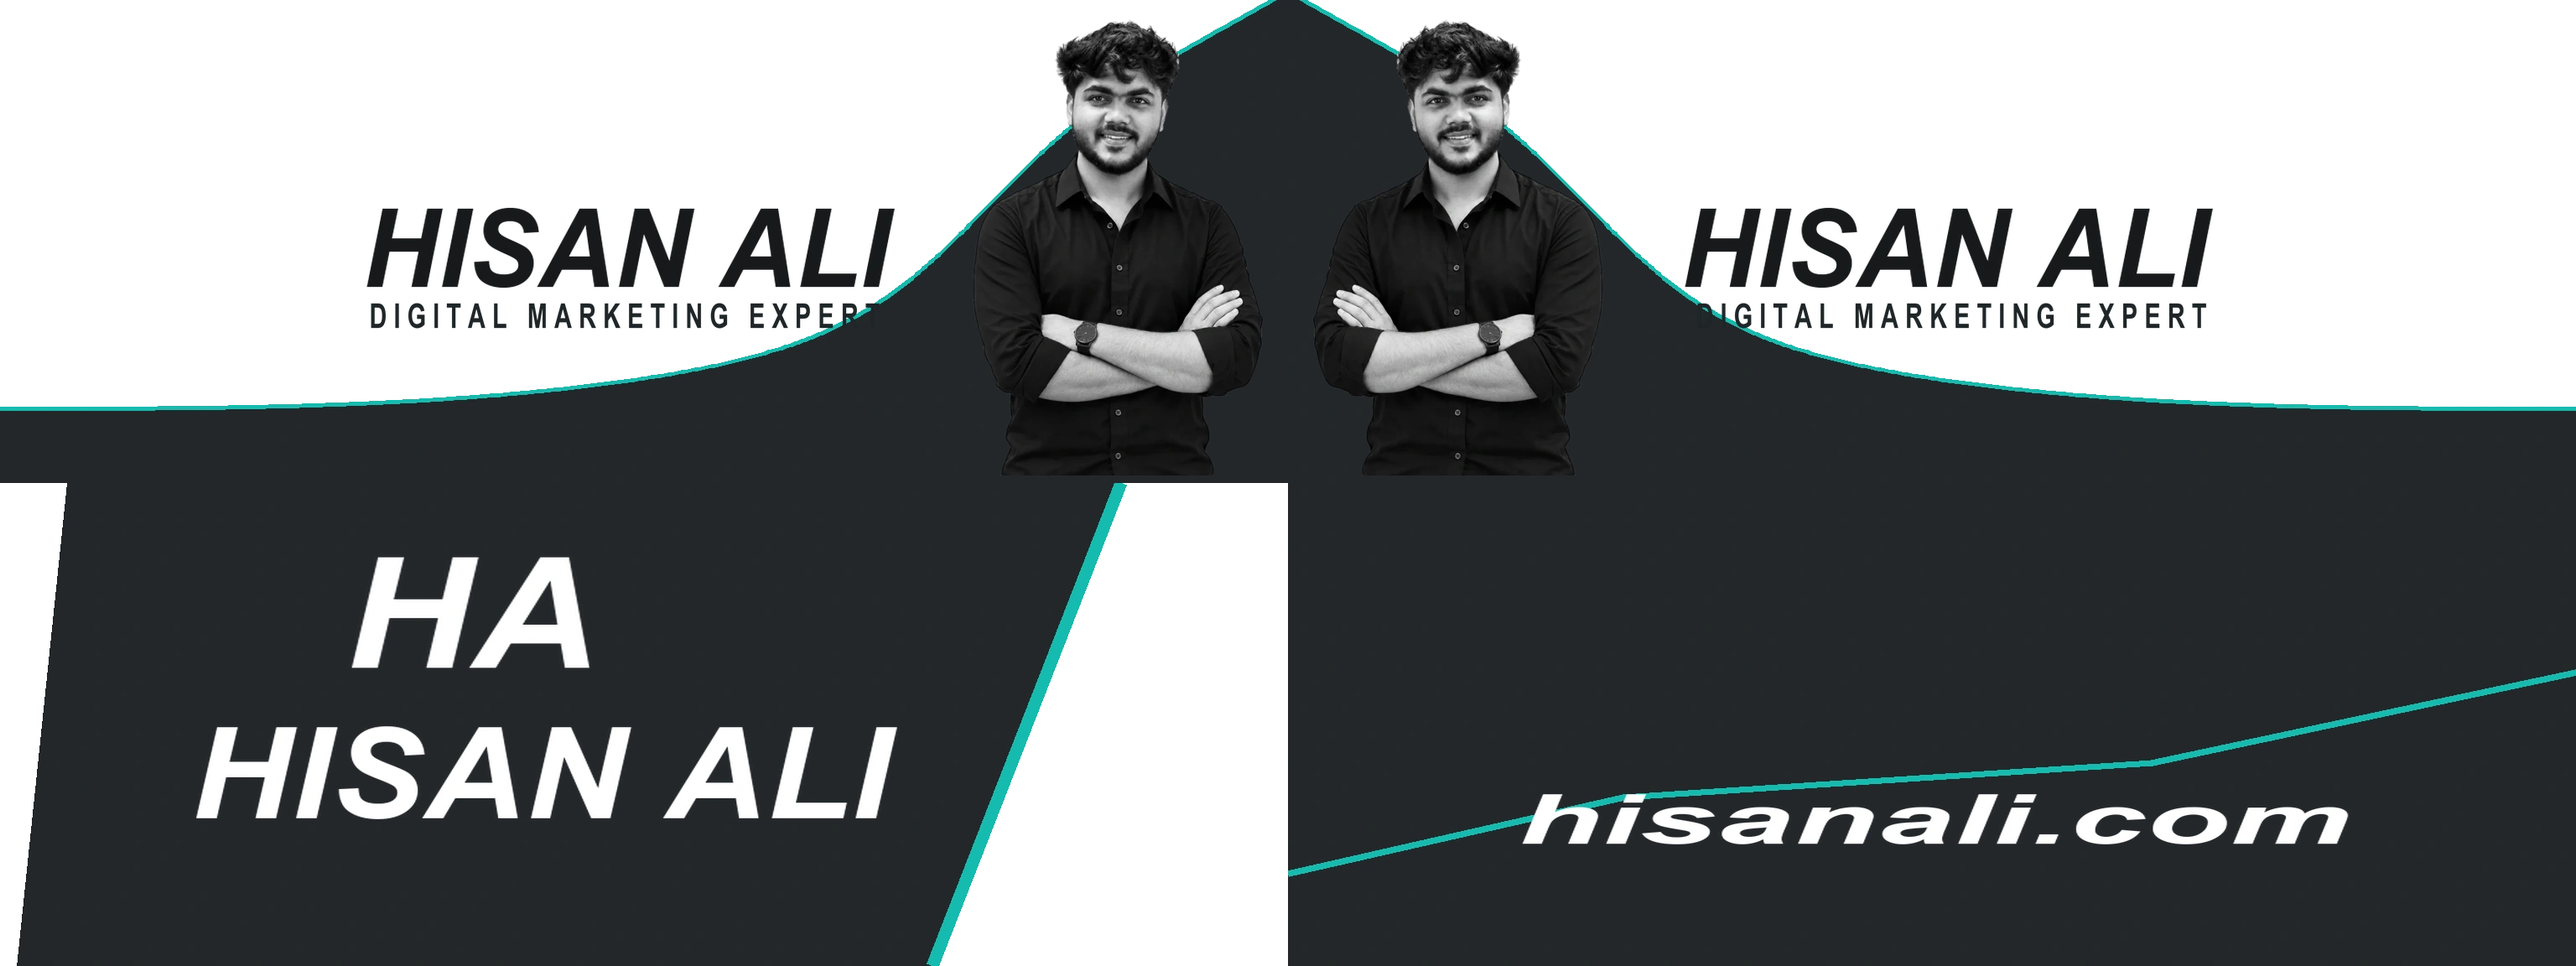
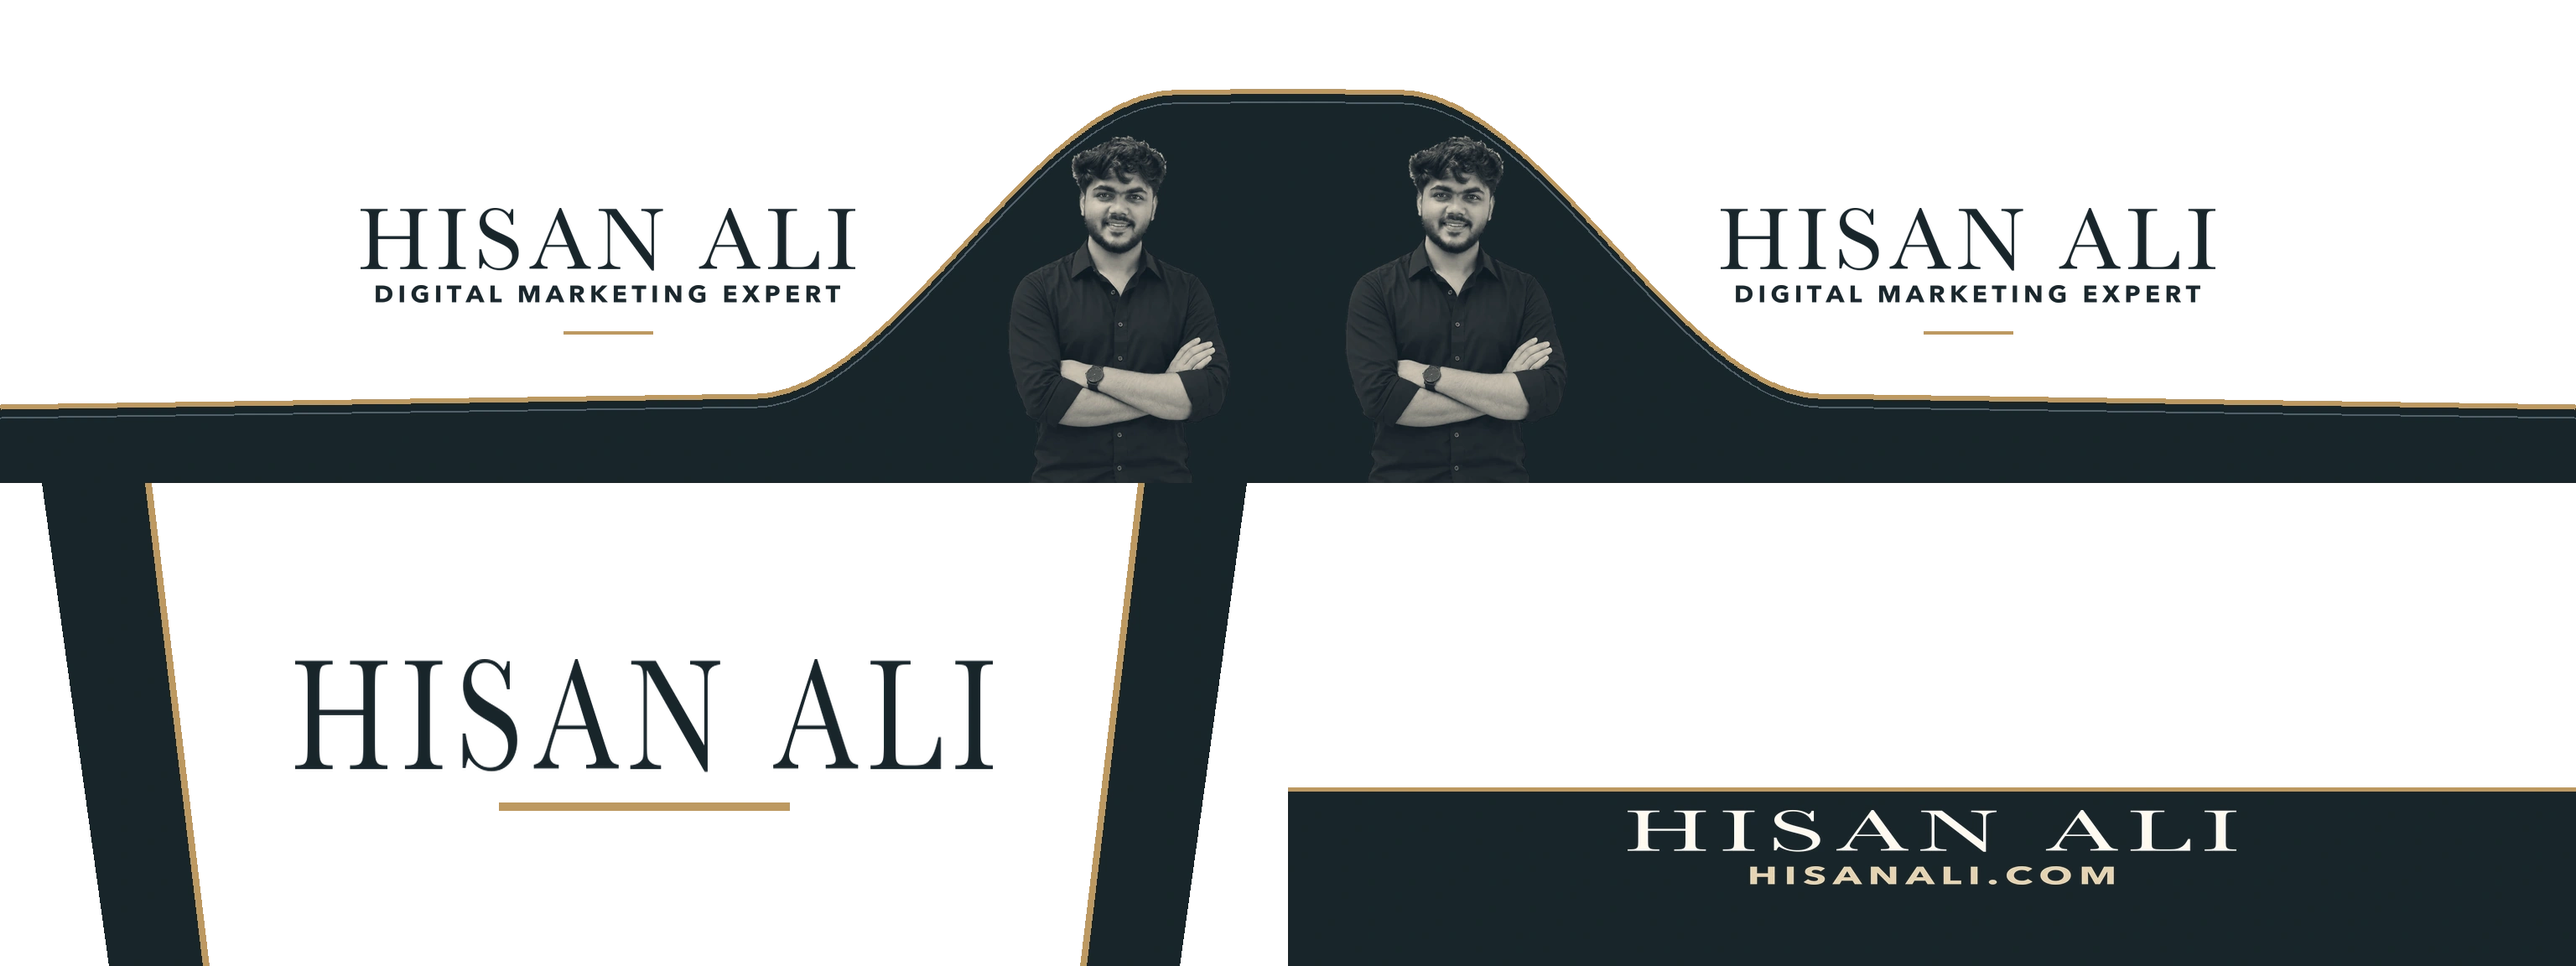
Redesign Hisan fleet wraps in graphite and champagne

diff --git a/afterdark/src/escalade-wrap.js b/afterdark/src/escalade-wrap.js
@@ -6,7 +6,7 @@ const finishes = new Map();
 export function fitEscaladeWrap(group, kit, panels, artwork = 'escalade-wrap') {
   let finish = finishes.get(artwork);
   if (!finish) {
-    const map = new THREE.TextureLoader().load('./assets/'+artwork+'.webp');
+    const map = new THREE.TextureLoader().load(`./assets/${artwork}.webp?v=champagne-1`);
     map.colorSpace = THREE.SRGBColorSpace; map.anisotropy = 8;
     finish = new THREE.MeshStandardMaterial({map,alphaTest:.16,roughness:.34,metalness:.24,
       polygonOffset:true,polygonOffsetFactor:-3,polygonOffsetUnits:-3});
